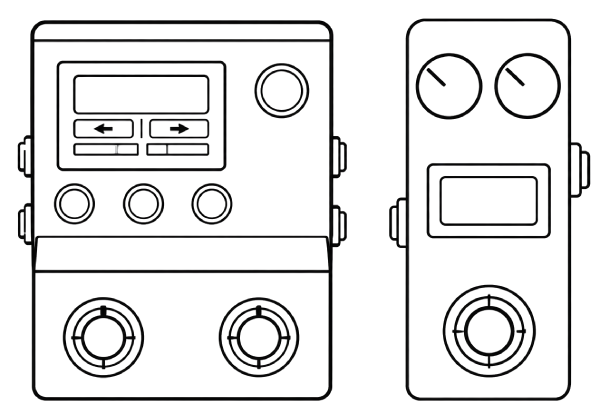
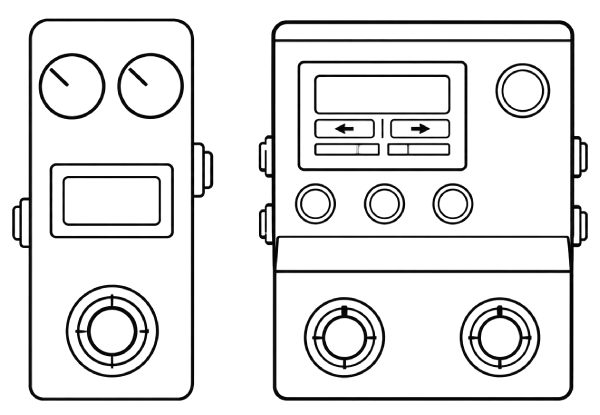
style: add pedals to homepage

Changed region(s): [[0.0, 0.0289, 0.99, 0.9831], [0.06, 0.9542, 0.09, 0.9831]]

diff --git a/src/features/controller/PedalWelcome.tsx b/src/features/controller/PedalWelcome.tsx
@@ -37,19 +37,21 @@ export function PedalWelcome() {
           Closed Beta
         </span>
       </div>
-      <p>Connect a Valeton GP5 or GP50 to get started...</p>
-      <img
-        src={pedalsLineBlack}
-        alt=""
-        aria-hidden
-        className="mt-2 w-[176px] dark:hidden"
-      />
-      <img
-        src={pedalsLineWhite}
-        alt=""
-        aria-hidden
-        className="mt-2 hidden w-[176px] dark:block"
-      />
+      <div className="mt-2 flex flex-col items-center gap-2">
+        <img
+          src={pedalsLineBlack}
+          alt=""
+          aria-hidden
+          className="w-[176px] dark:hidden"
+        />
+        <img
+          src={pedalsLineWhite}
+          alt=""
+          aria-hidden
+          className="hidden w-[176px] dark:block"
+        />
+        <p>Connect a Valeton GP5 or GP50 to get started...</p>
+      </div>
     </button>
   );
 }
